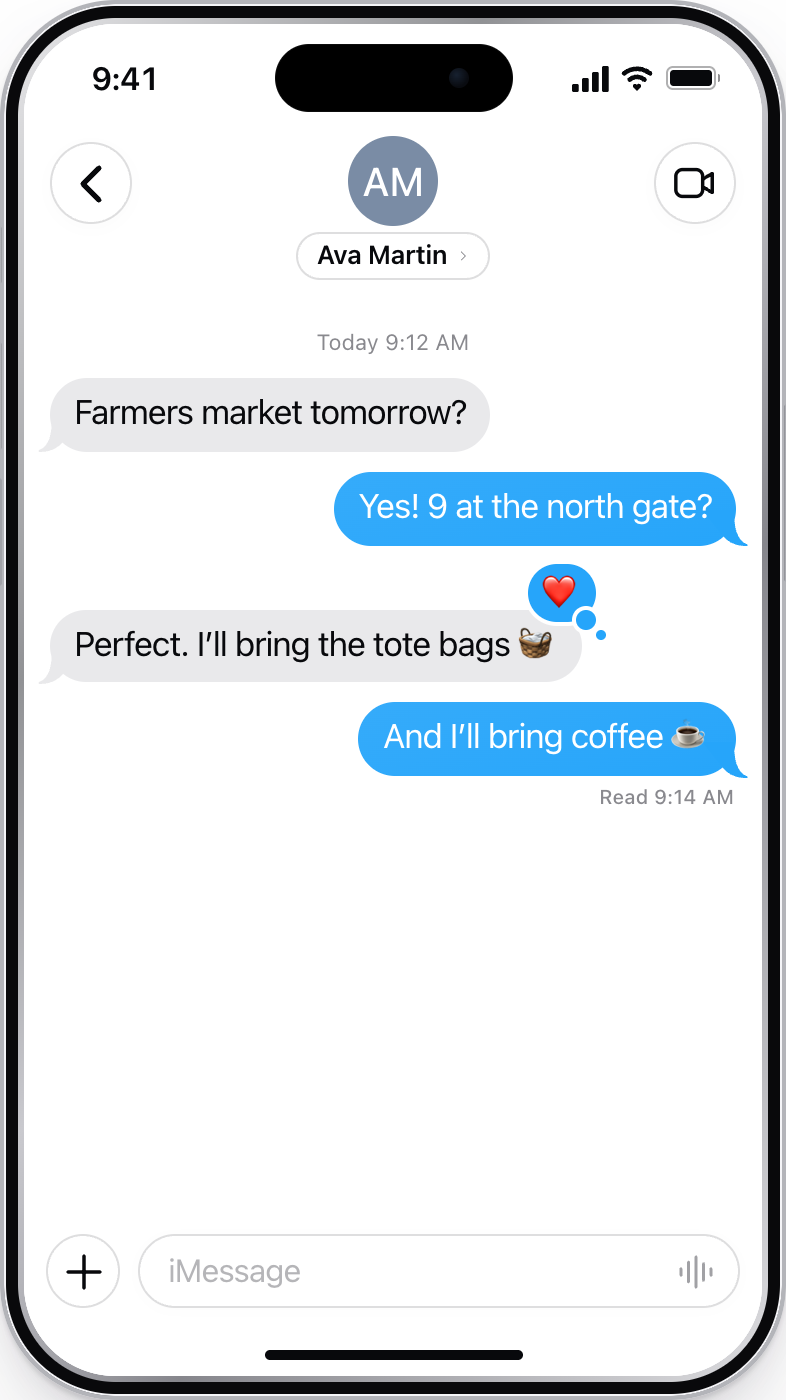
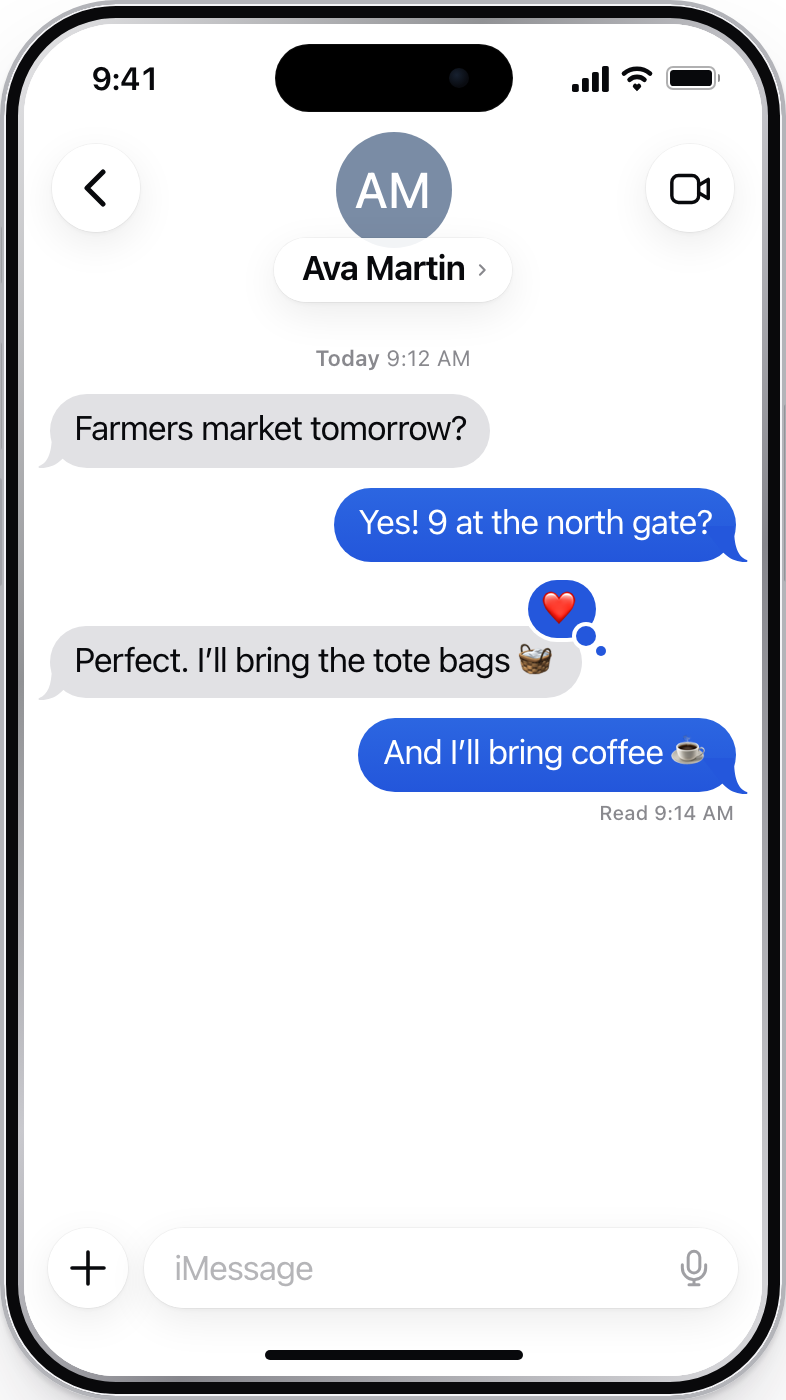
Match iOS 26 iMessage: Liquid Glass, larger contact (0.6.0) (#14)
* Match iOS 26 iMessage: Liquid Glass, larger contact (0.6.0)

Draws the iMessage header and composer the way iOS 26 does: frosted glass
round buttons and name pill, a larger avatar and bold name, the deeper blue
outgoing gradient, a darker incoming gray, and a mic in an empty composer.
Scoped to data-platform="imessage"; other platforms are unchanged.

* Redraw the iMessage README images

---------

diff --git a/dist/phone.css b/dist/phone.css
@@ -4151,3 +4151,121 @@
   padding-left: 10px;
   padding-right: 10px;
 }
+
+/* iOS 26 iMessage: Liquid Glass controls, a larger contact, and the deeper blue.
+   Measured from iOS 26 screenshots; geometry stays in logical points. */
+.tm-phone[data-platform="imessage"] {
+  --tm-out: #2457dc;
+  --tm-in: #e1e1e4;
+  --tm-glass: rgb(255 255 255 / 0.9);
+  --tm-glass-shadow:
+    0 0 0 0.5px rgb(0 0 0 / 0.035),
+    0 1px 2px rgb(0 0 0 / 0.04),
+    0 6px 20px rgb(0 0 0 / 0.08);
+}
+.tm-phone[data-platform="imessage"][data-theme="dark"] {
+  --tm-in: #262629;
+  --tm-glass: rgb(44 44 47 / 0.88);
+  --tm-glass-shadow:
+    inset 0 0.5px 0 rgb(255 255 255 / 0.12),
+    0 0 0 0.5px rgb(255 255 255 / 0.06),
+    0 6px 20px rgb(0 0 0 / 0.45);
+}
+.tm-phone[data-platform="imessage"] .tm-bubble[data-side="out"] {
+  background: linear-gradient(180deg, #2c66e1, #2356db);
+}
+.tm-phone[data-platform="imessage"] .tm-phone-header {
+  height: 158px;
+  background: linear-gradient(
+    color-mix(in srgb, var(--tm-screen) 94%, transparent) 0 52%,
+    color-mix(in srgb, var(--tm-screen) 72%, transparent) 80%,
+    transparent
+  );
+}
+.tm-phone[data-platform="imessage"] .tm-nav-back,
+.tm-phone[data-platform="imessage"] .tm-im-video,
+.tm-phone[data-platform="imessage"] .tm-add,
+.tm-phone[data-platform="imessage"] .tm-im-name,
+.tm-phone[data-platform="imessage"] .tm-composer-field {
+  border: 0;
+  background: var(--tm-glass);
+  box-shadow: var(--tm-glass-shadow);
+}
+.tm-phone[data-platform="imessage"] .tm-nav-back,
+.tm-phone[data-platform="imessage"] .tm-im-video {
+  top: 60px;
+  width: 44px;
+  height: 44px;
+}
+.tm-phone[data-platform="imessage"] .tm-nav-back {
+  left: 14px;
+}
+.tm-phone[data-platform="imessage"] .tm-im-video {
+  right: 14px;
+}
+.tm-phone[data-platform="imessage"] .tm-im-contact {
+  top: 54px;
+  gap: 0;
+}
+.tm-phone[data-platform="imessage"] .tm-im-contact > .tm-avatar {
+  width: 58px;
+  height: 58px;
+  font-size: 25px;
+}
+.tm-phone[data-platform="imessage"] .tm-im-name {
+  position: relative;
+  margin-top: -5px;
+  gap: 5px;
+  padding: 5px 11px 6px 14px;
+  border-radius: 999px;
+  font-size: 17px;
+  line-height: 21px;
+  font-weight: 650;
+  letter-spacing: -0.4px;
+}
+.tm-phone[data-platform="imessage"] .tm-im-name svg {
+  width: 8px;
+  stroke-width: 3.2;
+}
+.tm-phone[data-platform="imessage"] .tm-contact-subtitle {
+  margin-top: 3px;
+}
+.tm-phone[data-platform="imessage"] .tm-thread {
+  top: 152px;
+}
+.tm-phone[data-platform="imessage"] .tm-composer {
+  gap: 8px;
+  padding: 10px 12px 34px;
+  background: linear-gradient(
+    transparent,
+    color-mix(in srgb, var(--tm-screen) 80%, transparent) 40%,
+    var(--tm-screen)
+  );
+}
+.tm-phone[data-platform="imessage"] .tm-add {
+  width: 40px;
+  height: 40px;
+}
+.tm-phone[data-platform="imessage"] .tm-composer-field {
+  min-height: 40px;
+  padding: 8px 12px 8px 15px;
+  border-radius: 20px;
+}
+.tm-phone[data-platform="imessage"] .tm-composer-field > .tm-composer-text,
+.tm-phone[data-platform="imessage"] .tm-composer-placeholder {
+  font-size: 17px;
+  line-height: 22px;
+  letter-spacing: -0.4px;
+}
+.tm-phone[data-platform="imessage"] .tm-composer-field .tm-send {
+  width: 30px;
+  height: 30px;
+  margin: -4px -8px -4px 0;
+  background: var(--tm-out);
+}
+.tm-screen[data-status-hidden] .tm-phone-header {
+  height: 104px;
+}
+.tm-screen[data-status-hidden] .tm-thread {
+  top: 100px;
+}

diff --git a/src/phone.css b/src/phone.css
@@ -4151,3 +4151,121 @@
   padding-left: 10px;
   padding-right: 10px;
 }
+
+/* iOS 26 iMessage: Liquid Glass controls, a larger contact, and the deeper blue.
+   Measured from iOS 26 screenshots; geometry stays in logical points. */
+.tm-phone[data-platform="imessage"] {
+  --tm-out: #2457dc;
+  --tm-in: #e1e1e4;
+  --tm-glass: rgb(255 255 255 / 0.9);
+  --tm-glass-shadow:
+    0 0 0 0.5px rgb(0 0 0 / 0.035),
+    0 1px 2px rgb(0 0 0 / 0.04),
+    0 6px 20px rgb(0 0 0 / 0.08);
+}
+.tm-phone[data-platform="imessage"][data-theme="dark"] {
+  --tm-in: #262629;
+  --tm-glass: rgb(44 44 47 / 0.88);
+  --tm-glass-shadow:
+    inset 0 0.5px 0 rgb(255 255 255 / 0.12),
+    0 0 0 0.5px rgb(255 255 255 / 0.06),
+    0 6px 20px rgb(0 0 0 / 0.45);
+}
+.tm-phone[data-platform="imessage"] .tm-bubble[data-side="out"] {
+  background: linear-gradient(180deg, #2c66e1, #2356db);
+}
+.tm-phone[data-platform="imessage"] .tm-phone-header {
+  height: 158px;
+  background: linear-gradient(
+    color-mix(in srgb, var(--tm-screen) 94%, transparent) 0 52%,
+    color-mix(in srgb, var(--tm-screen) 72%, transparent) 80%,
+    transparent
+  );
+}
+.tm-phone[data-platform="imessage"] .tm-nav-back,
+.tm-phone[data-platform="imessage"] .tm-im-video,
+.tm-phone[data-platform="imessage"] .tm-add,
+.tm-phone[data-platform="imessage"] .tm-im-name,
+.tm-phone[data-platform="imessage"] .tm-composer-field {
+  border: 0;
+  background: var(--tm-glass);
+  box-shadow: var(--tm-glass-shadow);
+}
+.tm-phone[data-platform="imessage"] .tm-nav-back,
+.tm-phone[data-platform="imessage"] .tm-im-video {
+  top: 60px;
+  width: 44px;
+  height: 44px;
+}
+.tm-phone[data-platform="imessage"] .tm-nav-back {
+  left: 14px;
+}
+.tm-phone[data-platform="imessage"] .tm-im-video {
+  right: 14px;
+}
+.tm-phone[data-platform="imessage"] .tm-im-contact {
+  top: 54px;
+  gap: 0;
+}
+.tm-phone[data-platform="imessage"] .tm-im-contact > .tm-avatar {
+  width: 58px;
+  height: 58px;
+  font-size: 25px;
+}
+.tm-phone[data-platform="imessage"] .tm-im-name {
+  position: relative;
+  margin-top: -5px;
+  gap: 5px;
+  padding: 5px 11px 6px 14px;
+  border-radius: 999px;
+  font-size: 17px;
+  line-height: 21px;
+  font-weight: 650;
+  letter-spacing: -0.4px;
+}
+.tm-phone[data-platform="imessage"] .tm-im-name svg {
+  width: 8px;
+  stroke-width: 3.2;
+}
+.tm-phone[data-platform="imessage"] .tm-contact-subtitle {
+  margin-top: 3px;
+}
+.tm-phone[data-platform="imessage"] .tm-thread {
+  top: 152px;
+}
+.tm-phone[data-platform="imessage"] .tm-composer {
+  gap: 8px;
+  padding: 10px 12px 34px;
+  background: linear-gradient(
+    transparent,
+    color-mix(in srgb, var(--tm-screen) 80%, transparent) 40%,
+    var(--tm-screen)
+  );
+}
+.tm-phone[data-platform="imessage"] .tm-add {
+  width: 40px;
+  height: 40px;
+}
+.tm-phone[data-platform="imessage"] .tm-composer-field {
+  min-height: 40px;
+  padding: 8px 12px 8px 15px;
+  border-radius: 20px;
+}
+.tm-phone[data-platform="imessage"] .tm-composer-field > .tm-composer-text,
+.tm-phone[data-platform="imessage"] .tm-composer-placeholder {
+  font-size: 17px;
+  line-height: 22px;
+  letter-spacing: -0.4px;
+}
+.tm-phone[data-platform="imessage"] .tm-composer-field .tm-send {
+  width: 30px;
+  height: 30px;
+  margin: -4px -8px -4px 0;
+  background: var(--tm-out);
+}
+.tm-screen[data-status-hidden] .tm-phone-header {
+  height: 104px;
+}
+.tm-screen[data-status-hidden] .tm-thread {
+  top: 100px;
+}

diff --git a/dist/phone.js b/dist/phone.js
@@ -628,7 +628,7 @@ function Composer({ scene, time }) {
         return _jsx(AndroidComposer, { scene: scene, time: time });
     return (_jsxs("div", { className: "tm-composer-wrap", "data-mode": mode, "aria-hidden": "true", children: [scene.platform !== "imessage" &&
                 (mode === "reply" || mode === "edit") && (_jsxs("div", { className: "tm-compose-context", children: [_jsx(NativeIcon, { name: mode === "edit" ? "edit" : "reply" }), _jsxs("div", { children: [_jsx("strong", { children: mode === "edit" ? "Edit Message" : (person?.name ?? "Reply") }), _jsx("span", { children: referenced?.text || referenced?.kind })] }), _jsx(Glyph, { name: "close", size: 18 })] })), _jsxs("div", { className: "tm-composer", "data-native-edit": nativeEdit || undefined, children: [_jsx("span", { className: "tm-add", children: _jsx(Glyph, { name: scene.platform === "telegram" ? "paperclip" : "plus", size: 24 }) }), _jsxs("div", { className: "tm-composer-field", "data-scheduled": mode === "scheduled" || undefined, children: [mode === "scheduled" && (_jsxs("div", { className: "tm-schedule-chip", children: [_jsx(Glyph, { name: "clock", size: 13 }), _jsx("span", { children: context?.scheduledAt }), _jsx(Glyph, { name: "chevron", size: 12 }), _jsx(Glyph, { name: "close", size: 15 })] })), _jsx("span", { className: hasText ? "tm-composer-text" : "tm-composer-placeholder", children: hasText ? (_jsx(ComposerText, { scene: scene, time: time })) : (_jsxs(_Fragment, { children: [placeholder, !nativeEdit && scene.composer.focused && (_jsx("i", { className: "tm-caret" }))] })) }), !hasText && scene.platform === "telegram" && (_jsx(Glyph, { name: "gift", size: 20 })), " ", !hasText && (_jsx(Glyph, { name: scene.platform === "imessage"
-                                    ? "wave"
+                                    ? "mic"
                                     : "sticker", size: 20 })), " ", hasText && scene.platform === "imessage" && (_jsx("span", { className: "tm-send", children: _jsx(Glyph, { name: "arrow-up", size: 20 }) }))] }), scene.platform === "whatsapp" && !hasText && (_jsx("span", { className: "tm-composer-mic", "data-camera": true, children: _jsx(Glyph, { name: "camera", size: 22 }) })), scene.platform !== "imessage" && (_jsx("span", { className: hasText ? "tm-send" : "tm-composer-mic", children: _jsx(Glyph, { name: hasText
                                 ? mode === "edit"
                                     ? "check"

diff --git a/src/phone.tsx b/src/phone.tsx
@@ -2345,7 +2345,7 @@ function Composer({ scene, time }: { scene: Scene; time: number }) {
             <Glyph
               name={
                 scene.platform === "imessage"
-                  ? "wave"
+                  ? "mic"
                   : "sticker"
               }
               size={20}

diff --git a/README.md b/README.md
@@ -25,7 +25,7 @@ Install the compiled package from an immutable GitHub Release:
 ```json
 {
   "dependencies": {
-    "@hraness/textmockups": "https://github.com/hraness/textmockups/releases/download/v0.5.0/hraness-textmockups-0.5.0.tgz"
+    "@hraness/textmockups": "https://github.com/hraness/textmockups/releases/download/v0.6.0/hraness-textmockups-0.6.0.tgz"
   }
 }
 ```
